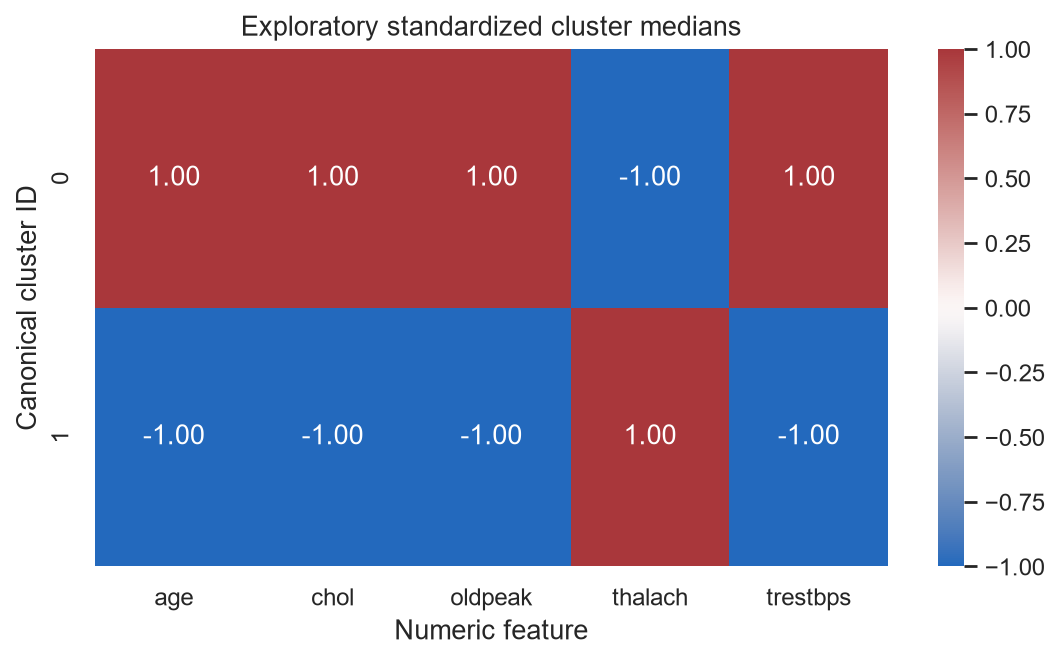
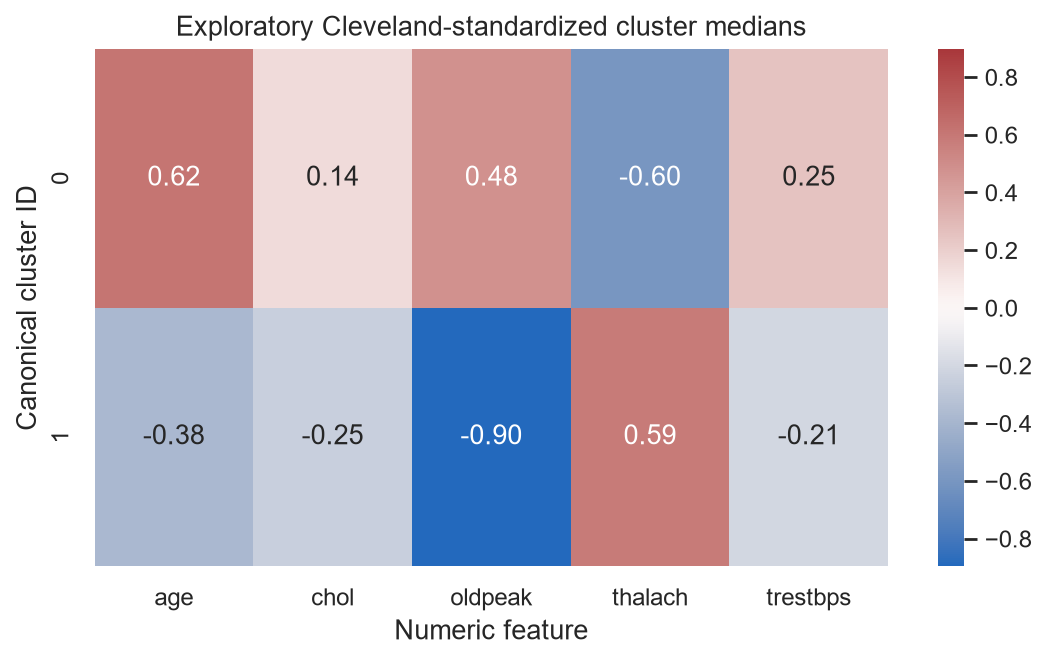
fix: preserve magnitude in cluster profile figure

diff --git a/src/heart_disease/unsupervised.py b/src/heart_disease/unsupervised.py
@@ -551,6 +551,11 @@ def _cluster_profiles(
     fitted: FittedProfiles,
     development: CohortData,
 ) -> pd.DataFrame:
+    transformed = np.asarray(
+        fitted.preprocessor.transform(development.features),
+        dtype=float,
+    )
+    standardized_numeric = transformed[:, : len(NUMERICAL_COLUMNS)]
     rows: list[dict[str, object]] = []
     for cluster in range(fitted.selected_k):
         mask = fitted.development_assignments == cluster
@@ -561,12 +566,15 @@ def _cluster_profiles(
             else "underpowered"
         )
         cluster_features = development.features.loc[mask]
-        for feature in NUMERICAL_COLUMNS:
+        for feature_index, feature in enumerate(NUMERICAL_COLUMNS):
             values = pd.to_numeric(cluster_features[feature]).dropna()
             statistics = {
                 "median": values.median(),
                 "q1": values.quantile(0.25),
                 "q3": values.quantile(0.75),
+                "standardized_median": np.median(
+                    standardized_numeric[mask, feature_index]
+                ),
             }
             for statistic, value in statistics.items():
                 rows.append(

diff --git a/src/heart_disease/unsupervised_reporting.py b/src/heart_disease/unsupervised_reporting.py
@@ -168,24 +168,25 @@ def _plot_cluster_profiles(
     path: Path,
 ) -> None:
     medians = study.cluster_profiles.loc[
-        study.cluster_profiles["statistic"].eq("median")
+        study.cluster_profiles["statistic"].eq("standardized_median")
     ].pivot(index="cluster", columns="feature", values="value")
-    scale = medians.std(axis=0, ddof=0).replace(0, 1)
-    standardized = (medians - medians.mean(axis=0)) / scale
-    standardized = standardized.replace([np.inf, -np.inf], np.nan).fillna(0)
+    medians = medians.replace([np.inf, -np.inf], np.nan).fillna(0)
+    color_limit = max(float(medians.abs().to_numpy().max()), 0.5)
     figure, axis = plt.subplots(figsize=(8.0, 4.2))
     sns.heatmap(
-        standardized,
+        medians,
         annot=True,
         fmt=".2f",
         center=0,
+        vmin=-color_limit,
+        vmax=color_limit,
         cmap="vlag",
         ax=axis,
     )
     axis.set(
         xlabel="Numeric feature",
         ylabel="Canonical cluster ID",
-        title="Exploratory standardized cluster medians",
+        title="Exploratory Cleveland-standardized cluster medians",
     )
     _save_figure(figure, path)
 

diff --git a/tests/test_unsupervised.py b/tests/test_unsupervised.py
@@ -326,7 +326,7 @@ def test_profile_outputs_cover_declared_cohorts_and_statistics() -> None:
         "switzerland",
         "va",
     }
-    assert {"median", "q1", "q3", "proportion"} <= set(
+    assert {"median", "q1", "q3", "standardized_median", "proportion"} <= set(
         study.cluster_profiles["statistic"]
     )
     assert study.interpretation["target_used_for_fit"] is False
